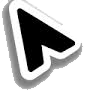
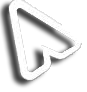
fixing blend typo, mouse pointer

diff --git a/webGL/mxFrame/mxShaderManager.js b/webGL/mxFrame/mxShaderManager.js
@@ -12,8 +12,8 @@ var RenderState = function(state)
   if (state.blend) this.blend = (state.blend[0].trim() === "true");
   if (state.blendop) this.blendop = gl[state.blendop[0].trim()];
   if (state.blendopalpha) this.blendopalpha = gl[state.blendopalpha[0].trim()];
-  if (state.blendfunc) this.blendfunc = { src: gl[state.blendfunc[0].trim()], dest: gl[state.blendfunc[0].trim()] };
-  if (state.blendfuncalpha) this.blendfuncalpha = { src: gl[state.blendfuncalpha[0].trim()], dest: gl[state.blendfuncalpha[0].trim()] };
+  if (state.blendfunc) this.blendfunc = { src: gl[state.blendfunc[0].trim()], dest: gl[state.blendfunc[1].trim()] };
+  if (state.blendfuncalpha) this.blendfuncalpha = { src: gl[state.blendfuncalpha[0].trim()], dest: gl[state.blendfuncalpha[1].trim()] };
   if (state.blendfactors) this.blendfactors = { r: state.blendfactors[0].trim(), g: state.blendfactors[1].trim(), b: state.blendfactors[2].trim(), a: state.blendfactors[3].trim() };
   if (state.blendmask) this.blendmask = { r: state.blendmask[0].trim(), g: state.blendmask[1].trim(), b: state.blendmask[2].trim(), a: state.blendmask[3].trim() };
   // depth states

diff --git a/webGL/mxFrame/mxGame.js b/webGL/mxFrame/mxGame.js
@@ -260,7 +260,7 @@ Game.drawEye = function(eye)
   // MOUSE AREA
   var uniforms = {};
   uniforms.location = vec2.fromValues(Game.mouse.X, Game.mouse.Y);
-  uniforms.size = vec2.fromValues(64,64);
+  uniforms.size = vec2.fromValues(32,32);
   uniforms.screensize = vec2.fromValues(eye.viewport[2], eye.viewport[3]);
 
   var effect = Game.shaderMan.shaders['sprite'];
